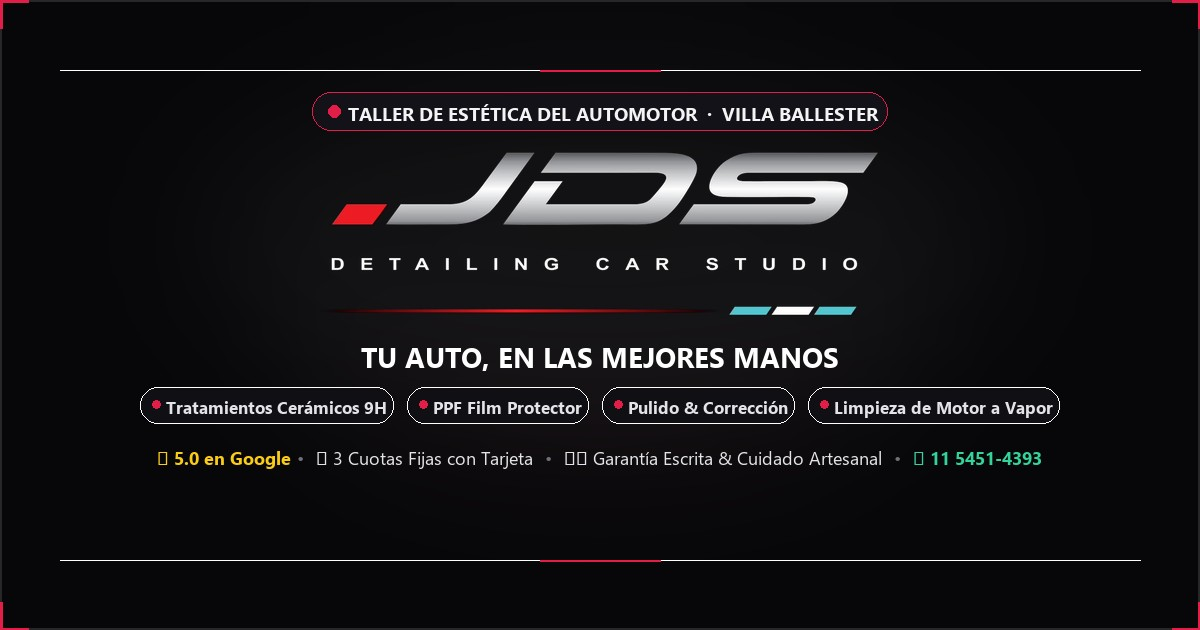
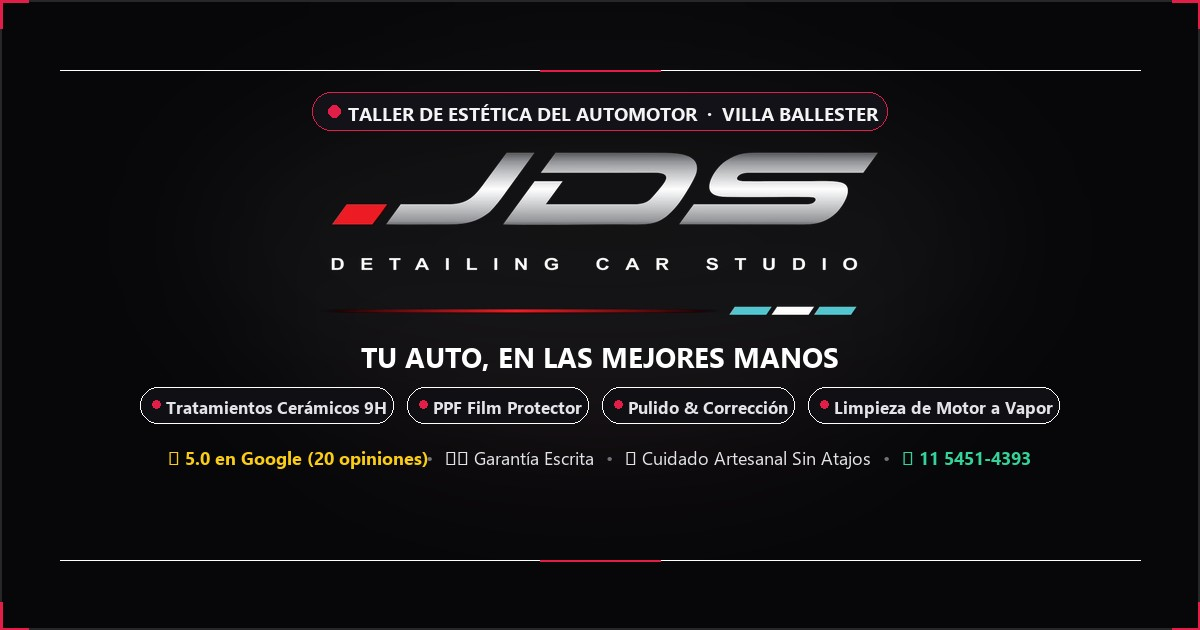
fix(hero): restore video background by prioritizing video_hero over fotos, and remove cuotas from og preview card

Changed region(s): [[0.1233, 0.6937, 0.8633, 0.754]]

diff --git a/data/jds-data.ts b/data/jds-data.ts
@@ -15,7 +15,7 @@ export const JDS_DETAILING_BUSINESS: Business = {
   horario: "Lunes a Viernes: 10:00 a 18:00 | Sábados: 10:00 a 16:00 (Turno previo)",
   color_theme: "rojo",
   logo_url: "/logo/jds/jds-logo-transparent.png",
-  fotos: ["/og-jds.jpg"],
+  fotos: [],
   maps_url: "https://www.google.com/maps/place/Jds+detailing+Car+estudio/data=!4m7!3m6!1s0x95bcb9e9ff10fe3b:0xf29f5d44d22954a1!8m2!3d-34.5652775!4d-58.5639934!16s%2Fg%2F11nwvzb3zw!19sChIJO_4Q_-m5vJURoVQp0kRdn_I?authuser=0&hl=es-419&g_ep=EgoyMDI2MTAwNS4wIJJjKgBIAVAD&rclk=1",
   pais: "AR",
   template: "argentina",

diff --git a/components/argentina/LandingArgentina.tsx b/components/argentina/LandingArgentina.tsx
@@ -370,7 +370,7 @@ export default function LandingArgentina({ biz }: { biz: Business }) {
 
       {/* 2. HERO */}
       <section id="hero" className="relative min-h-[100dvh] h-[100dvh] pt-14 sm:pt-20 pb-4 sm:pb-8 px-4 sm:px-6 overflow-hidden flex items-center justify-center">
-        {biz.fotos && biz.fotos.length > 0 ? (
+        {!biz.video_hero && biz.fotos && biz.fotos.length > 0 ? (
           // eslint-disable-next-line @next/next/no-img-element
           <img
             src={biz.fotos[0]}

diff --git a/scripts/generate_jds_assets.py b/scripts/generate_jds_assets.py
@@ -226,11 +226,11 @@ def make_og_preview():
 
     # 6. Bottom Trust Bar
     trust_items = [
-        ("⭐ 5.0 en Google", (250, 204, 21)),
+        ("⭐ 5.0 en Google (20 opiniones)", (250, 204, 21)),
         ("•", (113, 113, 122)),
-        ("💳 3 Cuotas Fijas con Tarjeta", (228, 228, 231)),
+        ("🛡 Garantía Escrita", (228, 228, 231)),
         ("•", (113, 113, 122)),
-        ("🛡 Garantía Escrita & Cuidado Artesanal", (228, 228, 231)),
+        ("🚗 Cuidado Artesanal Sin Atajos", (228, 228, 231)),
         ("•", (113, 113, 122)),
         ("📲 11 5451-4393", (52, 211, 153)),
     ]
